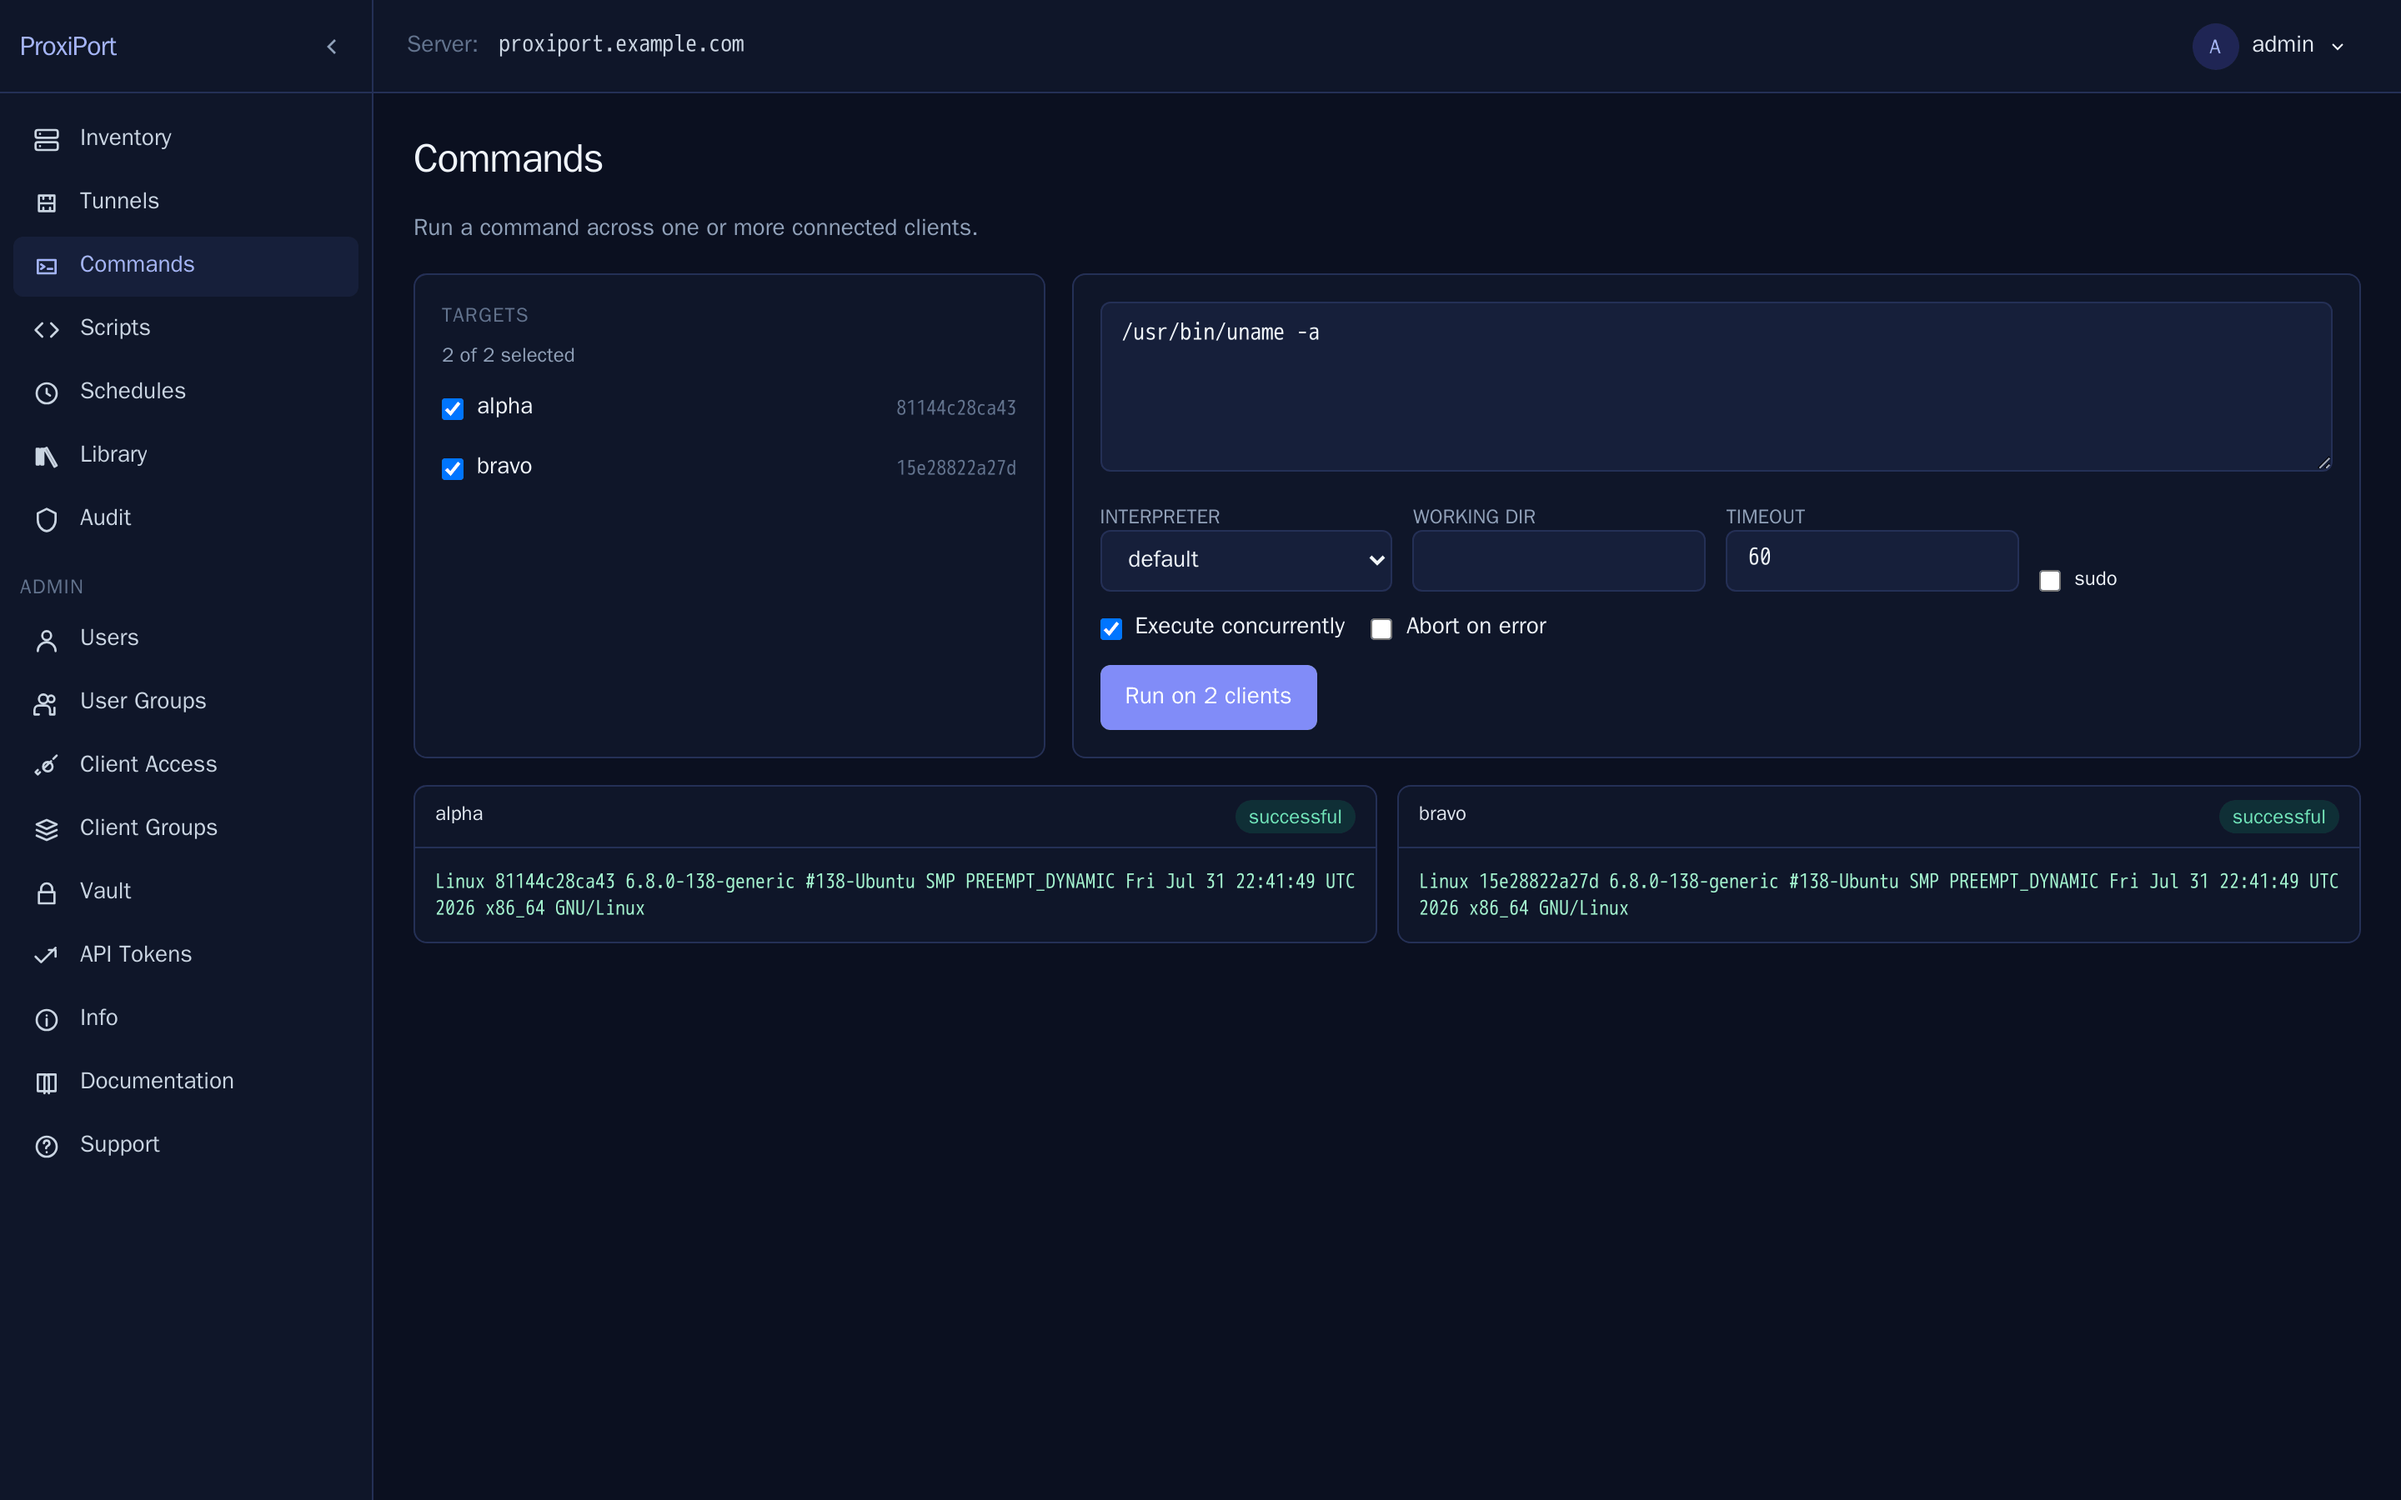
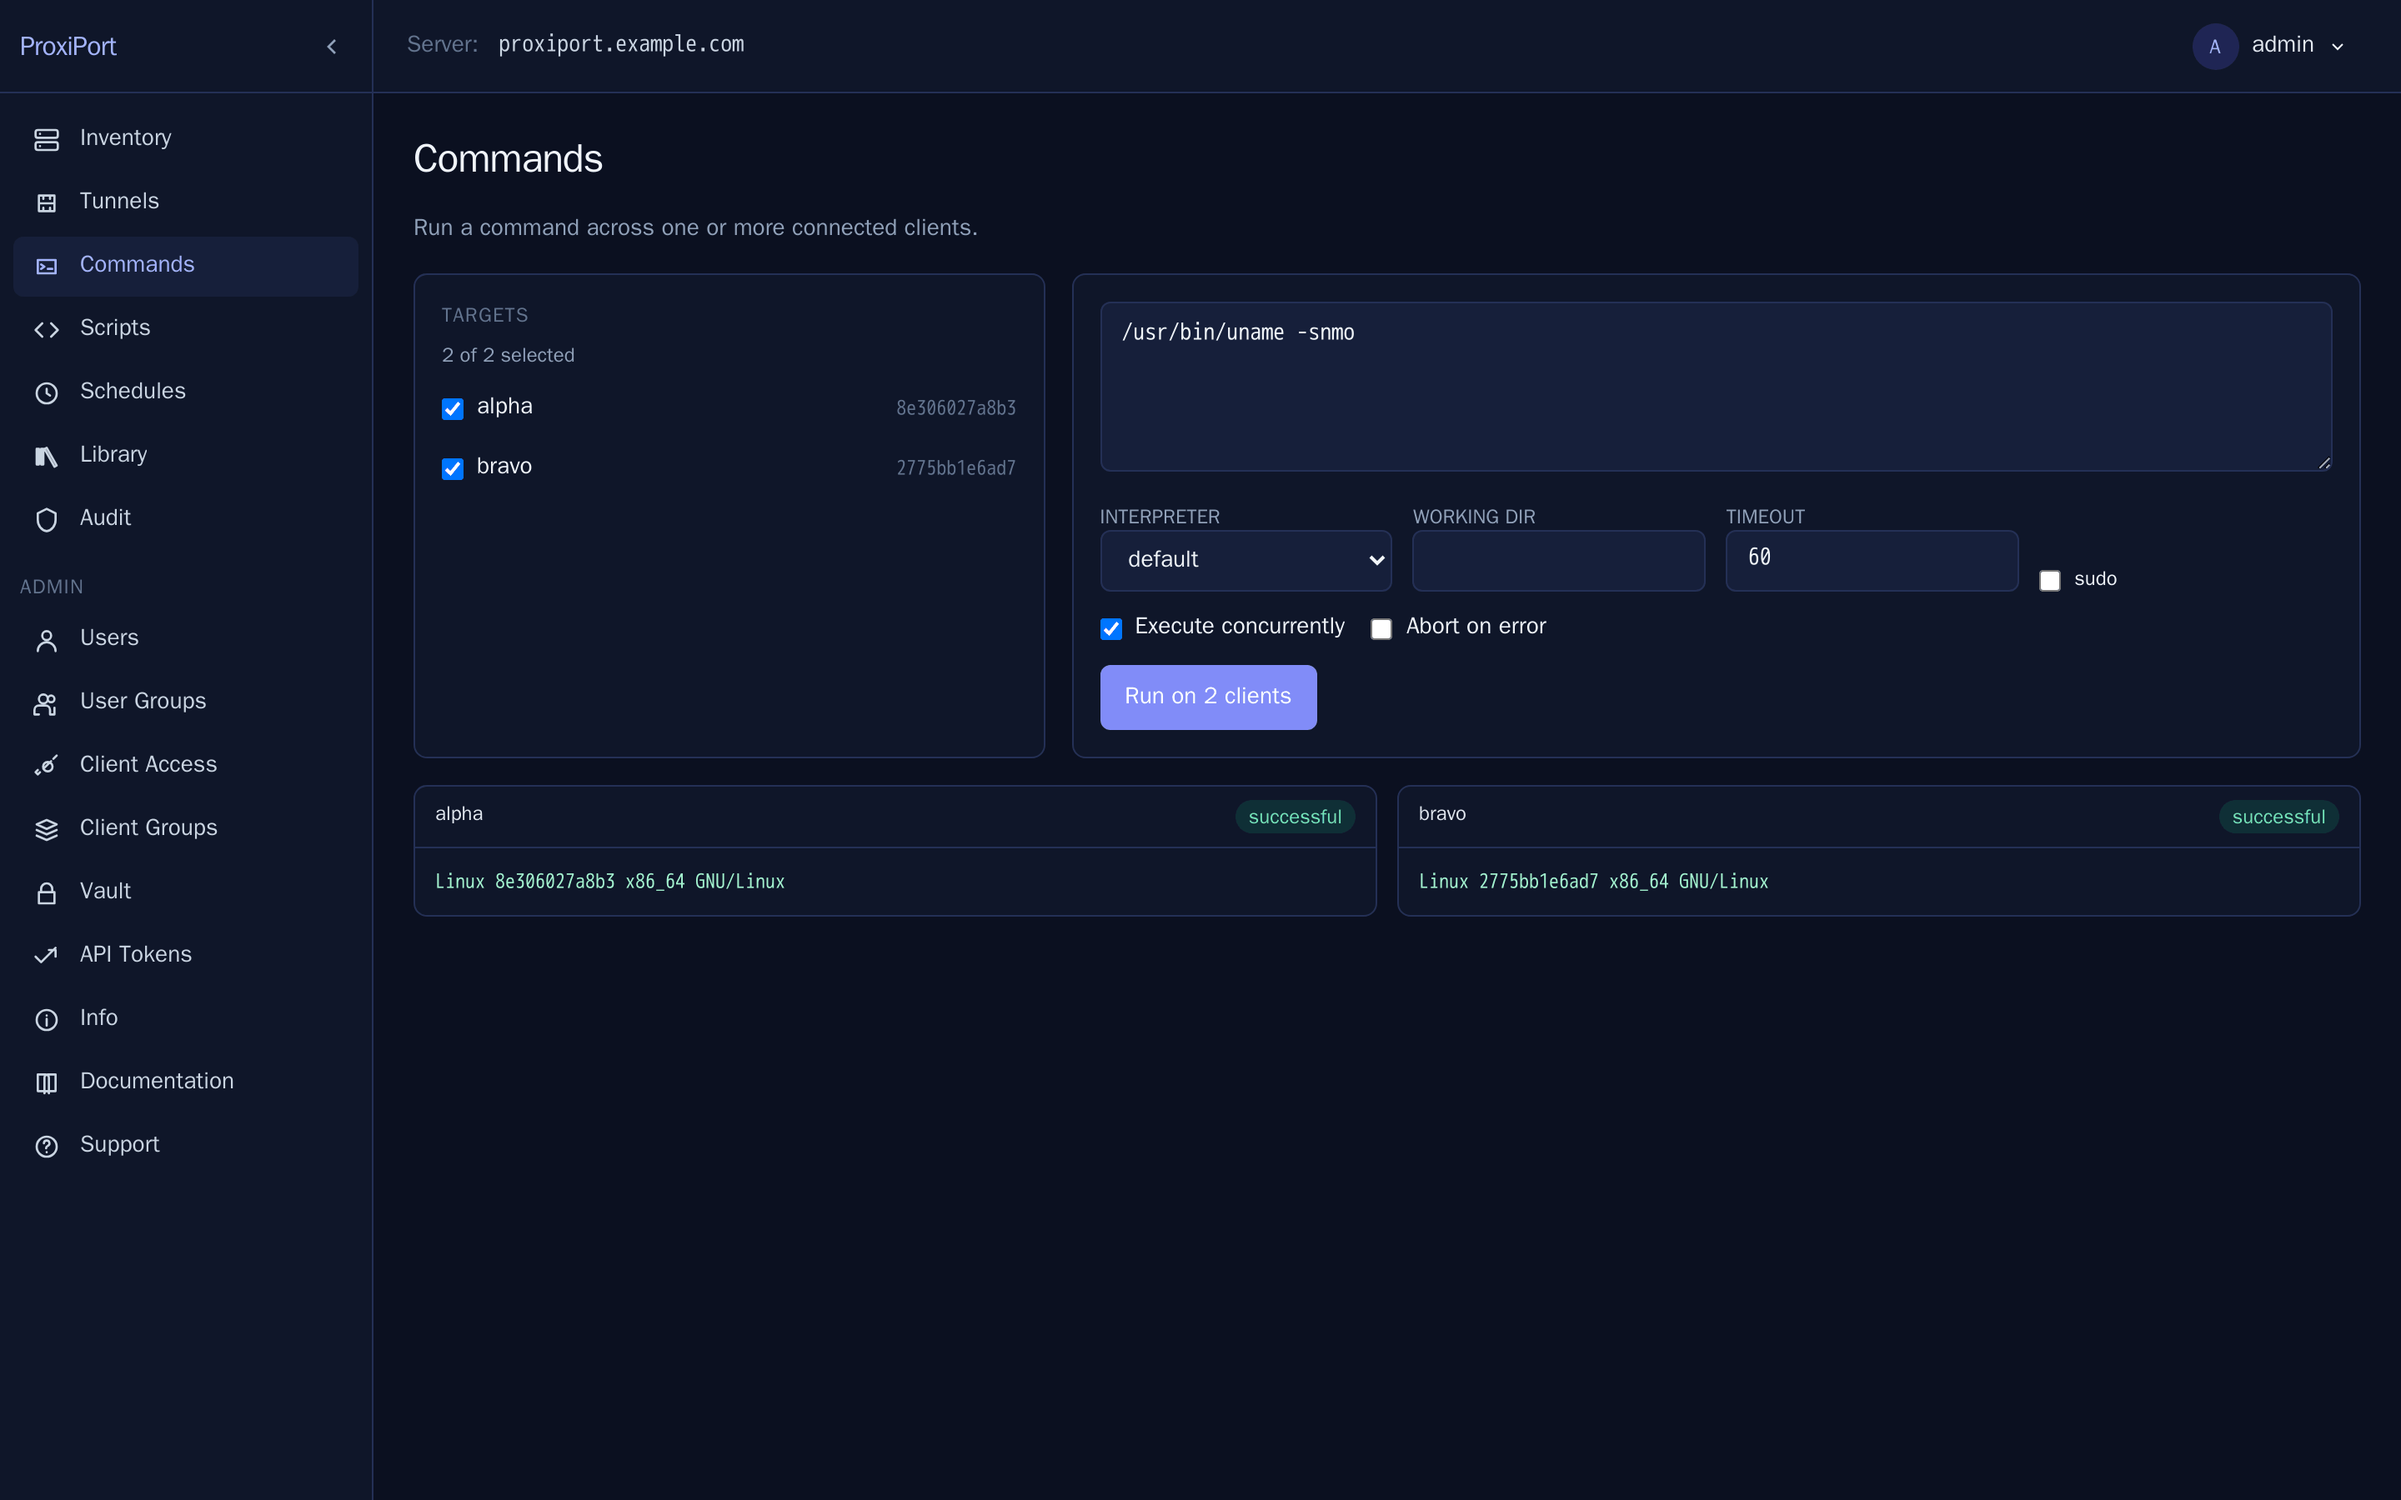
docs: recapture the screenshots that showed the capture host or the wrong view (#175)
Fifteen of the thirty-six screenshots are replaced.

Five carried the machine the capture ran on: the Inventory and
client-detail pages showed its CPU model, core count and RAM, and the
three command and script runs printed its kernel build string through
`uname -a`. The agents now report generic virtual-machine hardware, the
runs call `uname` without the kernel flags, and the script prints the
agent's own OS release instead.

Three names held a copy of another image: the ACL/timeout fields were the
create form again, the stored-tunnels view was the active-tunnels view,
and the saved-scripts library was the saved-commands tab. Each is now its
own capture — the two tables and the form section as close-ups, the
scripts tab selected.

The user-groups page showed the read-only form a file-backed user store
gets; it now shows the permission columns a database-backed store makes
editable. The five 2FA pages were older, smaller captures with
placeholder boxes, one of them a mock-up; all five are real captures at
the current layout, taken by walking the TOTP enrolment, and the former
mock-up is renamed accordingly. Captions follow the images.

diff --git a/docs/operator-runbook.md b/docs/operator-runbook.md
@@ -218,25 +218,27 @@ persistent storage.
   their next login. The user scans the SPA's QR with any RFC 6238
   TOTP app:
 
-  ![2FA enrollment — the SPA renders the QR client-side; the secret
-  never leaves the browser.](screenshots/37-2fa-setup-mockup.png)
+  ![First login after TOTP is switched on — the server issues the
+  secret, the SPA shows it as a QR (and as text for manual entry) and
+  asks for the first code.](screenshots/37-2fa-setup.png)
 
   Admins can require an existing user to re-enroll from the **Users**
   page:
 
-  ![Picking a user to (re-)enroll for TOTP.](screenshots/35-users-with-2fa-recipient.png)
+  ![Users — `Reset 2FA` clears an account's authenticator so its next
+  login enrolls again.](screenshots/35-users-with-2fa-recipient.png)
 
   Once enabled at the server, the Info page reflects the new
   posture:
 
-  ![Server info with `2FA enabled` and `TOTP enabled` flipped
-  on.](screenshots/34-server-info-2fa-on.png)
+  ![Server info with `2FA enabled: yes` and the delivery method set to
+  the TOTP authenticator app.](screenshots/34-server-info-2fa-on.png)
 
   Each user's profile shows their TOTP enrollment state and lets
   them reset it:
 
-  ![Profile page once 2FA is in
-  effect.](screenshots/36-profile-in-2fa-mode.png)
+  ![Profile page once 2FA is in effect — the enrolled authenticator can
+  be removed here.](screenshots/36-profile-in-2fa-mode.png)
 
 ## Capacity and limits
 
@@ -293,7 +295,7 @@ sends `X-Forwarded-For` — both halves are needed, see
 [IP-address determination](ip-address-determination.md#forwarded-for-handling-on-the-server).
 With built-in TLS the connection IP is used directly.
 
-![Active tunnel with a single-IP ACL applied.](screenshots/05-tunnel-acl-active.png)
+![Active tunnel with its ACL applied.](screenshots/05-tunnel-acl-active.png)
 
 Tunnels also accept inactivity / lifetime caps, after which the
 server closes the listener and notifies the agent.
@@ -356,7 +358,8 @@ matching `allow` entry was in the agent's
 When a command is allowed, the SPA streams stdout / stderr live
 and prints the exit code at the end.
 
-![Single-host `uname -a` run.](screenshots/13-cmd-run-uname-output.png)
+![Single-host `uname` run — the output streams back under the
+form.](screenshots/13-cmd-run-uname-output.png)
 
 Scripts are the same control surface with a multi-line editor and
 an interpreter selector (`/bin/bash`, `/usr/bin/python3`, …). The
